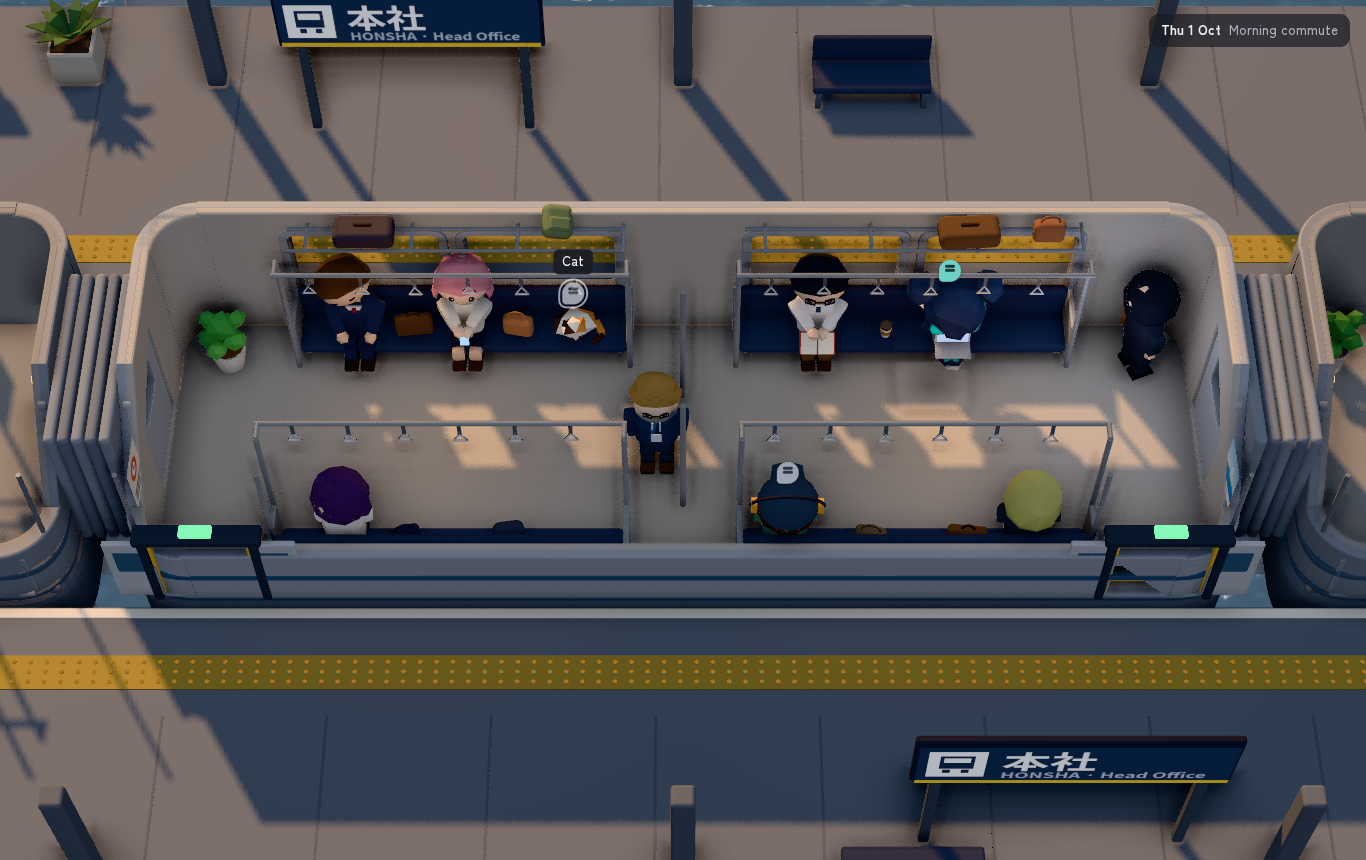
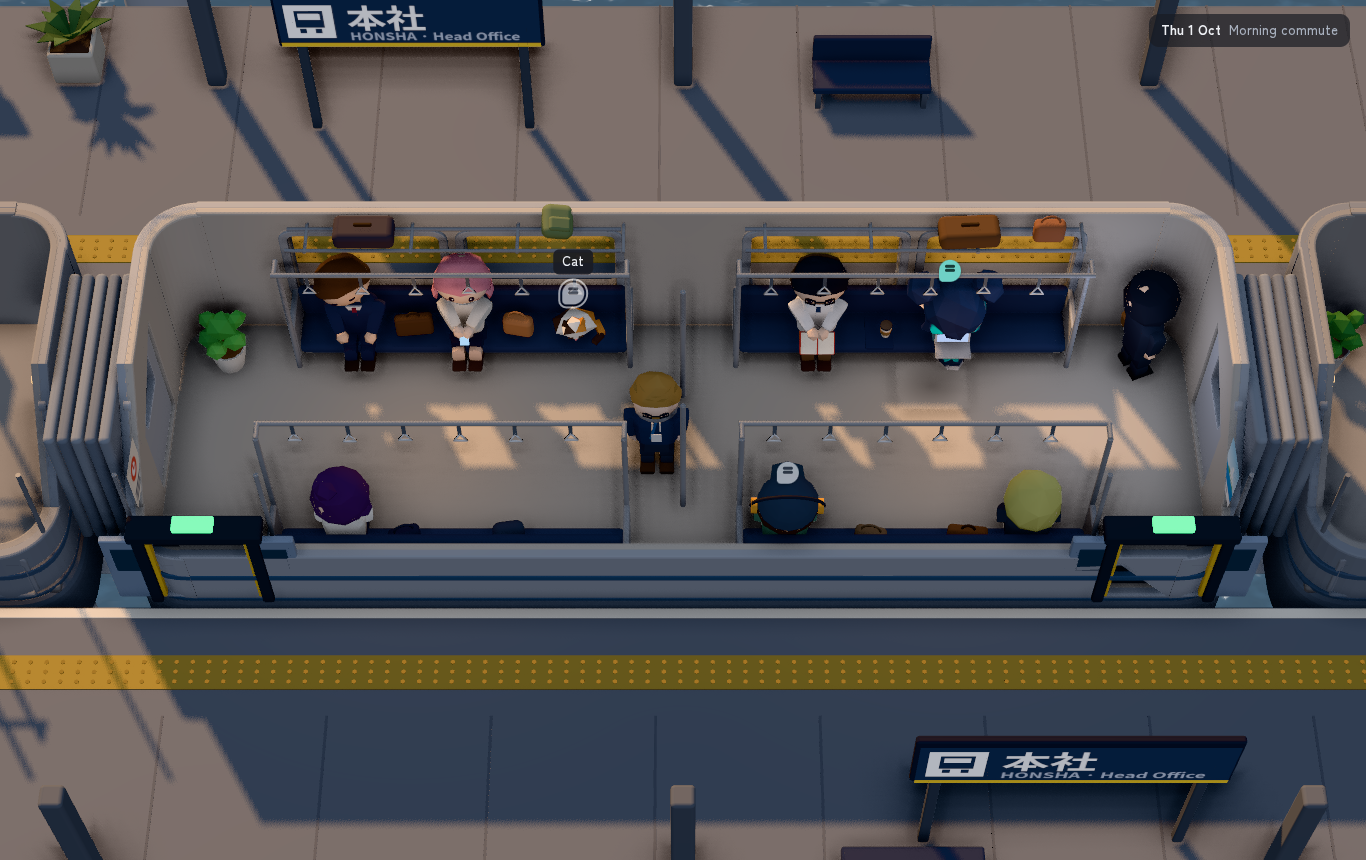
game3d: clearer train doors; review scores rounds 2 to 5
Claude-Session: https://claude.ai/code/session_01De42hGxD43zvtRt5qbbiWq

Changed region(s): [[0.0615, 0.5744, 0.2152, 0.6953], [0.7687, 0.5744, 0.9224, 0.6953]]

diff --git a/game3d/js/places/train.js b/game3d/js/places/train.js
@@ -177,18 +177,20 @@ export async function trainPlace(game) {
   const doorLamps = [], myLeaves = [];
   const lampShut = emissive('#ffcf8a', '#ffb24a', 1.8), lampOpen = emissive('#b8f5c8', '#46d18a', 2.2);
   for (const dx of [-DOOR_X, DOOR_X]) {
-    for (const s of [-1, 1]) car.root.add(rbox(0.07, 0.8, 0.16, '#3a404b', { x: dx + s * (DOOR_W / 2 + 0.035), z: LZ + T / 2, r: 0.02 }));
-    car.root.add(rbox(DOOR_W + 0.2, 0.08, 0.16, '#3a404b', { x: dx, y: 0.8, z: LZ + T / 2, r: 0.02 }));
-    const lamp = rbox(0.24, 0.05, 0.1, null, { x: dx, y: 0.88, z: LZ + T / 2, r: 0.015, m: lampShut, cast: false });
+    for (const s of [-1, 1]) car.root.add(rbox(0.09, 0.9, 0.2, '#2a2f38', { x: dx + s * (DOOR_W / 2 + 0.045), z: LZ + T / 2, r: 0.02 }));
+    car.root.add(rbox(DOOR_W + 0.24, 0.1, 0.2, '#2a2f38', { y: 0.88, x: dx, z: LZ + T / 2, r: 0.02 }));
+    // a dark doorway behind the leaves, so the gap shows when they open
+    car.root.add(rbox(DOOR_W - 0.02, 0.84, 0.02, '#1c2027', { x: dx, y: 0.02, z: LZ + T / 2 - 0.05, r: 0.01, cast: false }));
+    const lamp = rbox(0.3, 0.06, 0.12, null, { x: dx, y: 0.98, z: LZ + T / 2, r: 0.015, m: lampShut, cast: false });
     car.root.add(lamp); doorLamps.push(lamp);
     car.root.add(rbox(DOOR_W, 0.006, 0.12, '#d8b447', { x: dx, y: 0.001, z: LZ - 0.02, r: 0.003, cast: false }));
     // full-height sliding leaves (taller than the cut wall so they read), each with a window and a yellow edge
     for (const s of [-1, 1]) {
       const leaf = new THREE.Group();
-      leaf.add(rbox(DOOR_W / 2 - 0.01, 0.76, 0.05, '#c3c9d1', { r: 0.015 }));
-      leaf.add(rbox(DOOR_W / 2 - 0.12, 0.3, 0.056, '#4d6278', { y: 0.36, r: 0.02, m: mat('#56708a', { roughness: 0.2 }) }));
-      leaf.add(rbox(0.03, 0.74, 0.058, '#e0b83a', { x: -s * (DOOR_W / 4 - 0.02), y: 0.01, r: 0.01, cast: false }));
-      leaf.position.set(dx + s * DOOR_W / 4, 0.02, LZ + T / 2 + 0.02);
+      leaf.add(rbox(DOOR_W / 2 - 0.01, 0.84, 0.06, '#8fa2bb', { r: 0.015 }));
+      leaf.add(rbox(DOOR_W / 2 - 0.12, 0.34, 0.066, '#4d6278', { y: 0.4, r: 0.02, m: mat('#2f4257', { roughness: 0.2 }) }));
+      leaf.add(rbox(0.04, 0.82, 0.068, '#e0b83a', { x: -s * (DOOR_W / 4 - 0.02), y: 0.01, r: 0.01, cast: false }));
+      leaf.position.set(dx + s * DOOR_W / 4, 0.02, LZ + T / 2 + 0.03);
       car.root.add(leaf); myLeaves.push({ g: leaf, x0: leaf.position.x, s });
     }
   }

diff --git a/game3d/js/avatar.js b/game3d/js/avatar.js
@@ -71,7 +71,8 @@ export function buildEric() {
   return rig;
 }
 
-// The player avatar: same interface as the Meshy loader returns (root, setState, update, sitAt).
+// The player avatar: same interface as the Meshy loader returns (root, setState, update, sitAt), so a Meshy
+// Eric can replace it in main.js boot() with one line: game.player = await loadMeshy('eric', ...).
 export function makeAvatar() {
   const rig = buildEric();
   const root = new THREE.Group();

diff --git a/game3d/REVIEW.md b/game3d/REVIEW.md
@@ -9,6 +9,12 @@ References: train `ref/1-train-arrival.png`, gate `ref/2-security-gate-muted.png
 | Round | Train | Gate | Office | Shots |
 |---|---|---|---|---|
 | 1 | 5 | 5 | 4 | shots/round-1 |
+| 2 | 6 | 6 | 6 | shots/round-2 |
+| 3 | 6 | 7 | 6 | shots/round-3 |
+| 4 | 7 | 7 | 6 | shots/round-4 |
+| 5 | 7 | 7 | 6 | shots/round-5 |
+
+None has reached the pass mark of 8 yet.
 
 ### Round 1 (2026-09-28)
 
@@ -17,3 +23,25 @@ References: train `ref/1-train-arrival.png`, gate `ref/2-security-gate-muted.png
 - Office 4: flat bright light, beige floor and pale walls, no light pools or gloss, empty copy room, kitchenette and corridor, cloth-covered monitors reading as pillows, rack backs as black boxes.
 
 Fixed after round 1: muted slate walls with skirting, cooler floors with gloss, warm lamp pools (point lights at every wall lamp and office fixture), gradient windows, visible tinted glass, lower cameras (50 to 51 degrees), people and Eric with smaller heads (2.8 to 3 heads), markers above heads and shown only near the player, cool grey platform and ochre tactile strips, draped monitor covers, racks facing the camera, more dressing in the corridor and bottom rooms, commuters and background people in the lobby, visible ceiling fixtures removed (Jørgen), the office period set to morning on arrival.
+
+### Round 2
+- Train 6: dead band of near platform, near-bench passengers read as heads, black silhouette by the right door, artifacts at the near wall (door leaves poking through the cut wall).
+- Gate 6: camera too steep, phone bottom 30% empty, helmet-like heads, palette too saturated navy, no contact shadows.
+- Office 6: dark navy walls, beige floor, phone band, sparse bottom row, woman with buns (Mio, Meshy) reads as a lump.
+Fixed: slate walls, cooler floors, desaturated benches, lower camera and phone lead, contact shadows, hidden door leaves, more props, rougher character material.
+
+### Round 3
+- Train 6, gate 7 (strongest), office 6. Clone-like commuters, bollards that look like people, the island and bottom rooms thin.
+Fixed: varied commuters, low square bollards, bigger cat, a meeting table, tighter office camera, a fill light by the far door.
+
+### Round 4
+- Train 7, gate 7, office 6. Chairs floating off desks, a stray paper stack, lifts proud of the wall, the coffee machine cropped.
+Fixed: chairs snug, lift surrounds, coffee machine moved in. Jørgen: "the train has no door", so the platform-side doors got full-height leaves, frames, lamps (amber shut, green open), a yellow edge and threshold, and a dark gap when open.
+
+### Round 5
+- Train 7: the dark standing passenger by the far door, navy bags on the near bench, empty platform bands.
+- Gate 7: a commuter half hidden behind the front glass, the cat reads as a smear, phone framing.
+- Office 6: bottom rooms and corridor still thin, no floor light pools, Mio's buns read as a boulder from above (her model is not changed on purpose), floor slightly mauve.
+Fixed after round 5: office floor cooler, filing row on the office's left wall, corridor bench, chatting pair moved off the plant, phone gate camera leads further toward the gate, clearer door panels.
+
+Not changed on purpose: the train's passengers and car (from side/train, recoloured only), Mio's shape (Meshy, colour only), the steep train camera (Jørgen's request).
